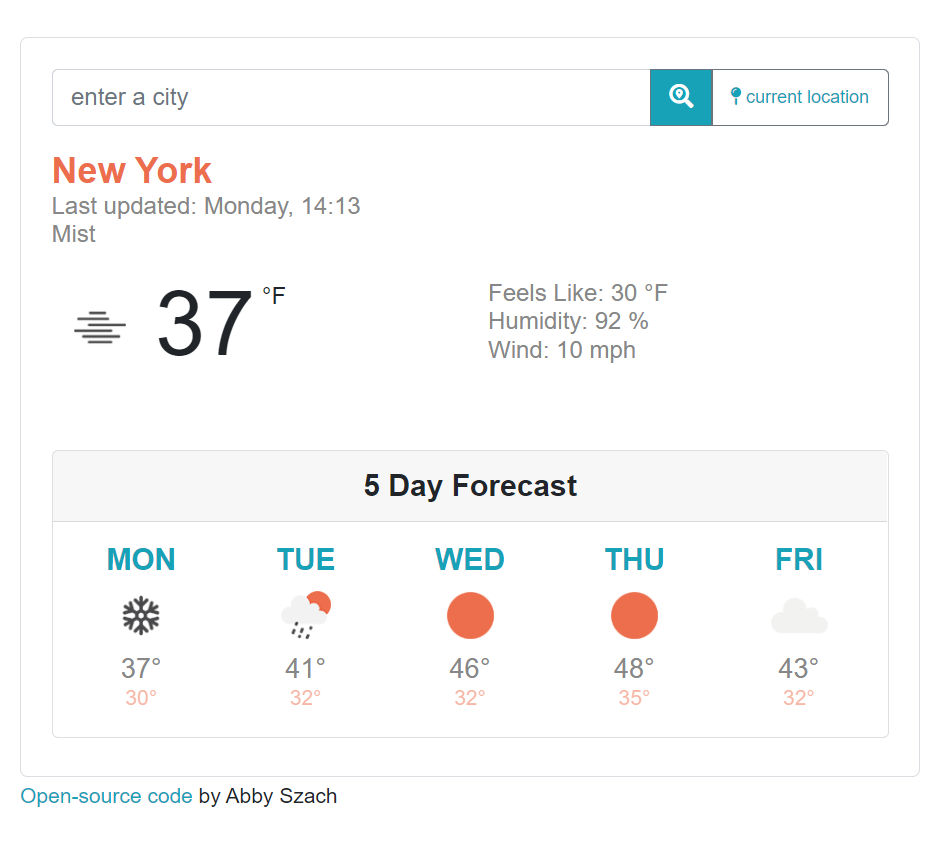
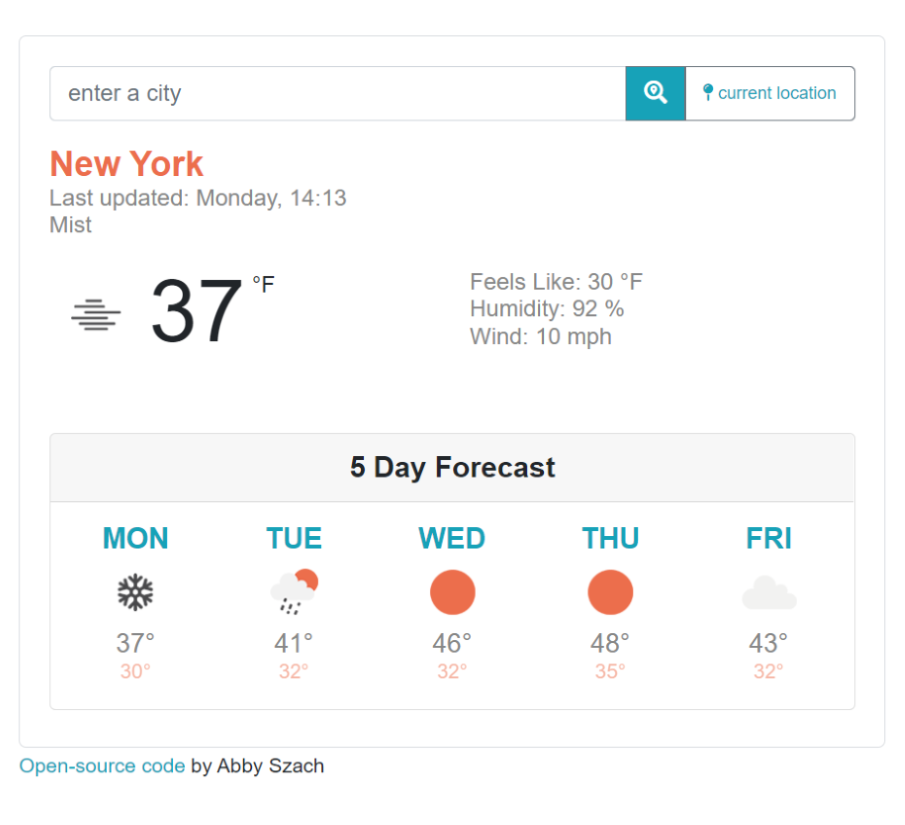
Added work page and made generic class for content

diff --git a/work.html b/work.html
@@ -1,0 +1,52 @@
+<!DOCTYPE html>
+<html lang="en">
+    <head>
+        <meta charset="UTF-8">
+        <meta name="description" content="About Page - Abby Szach">
+        <meta http-equiv="X-UA-Compatible" content="IE=edge">
+        <meta name="viewport" content="width=device-width, initial-scale=1.0">
+        <title>Learn more about front-end developer - Abby Szach</title>
+    
+        <link href="https://cdn.jsdelivr.net/npm/bootstrap@5.1.3/dist/css/bootstrap.min.css" rel="stylesheet" integrity="sha384-1BmE4kWBq78iYhFldvKuhfTAU6auU8tT94WrHftjDbrCEXSU1oBoqyl2QvZ6jIW3" crossorigin="anonymous">
+        <link rel="preconnect" href="https://fonts.googleapis.com">
+        <link rel="preconnect" href="https://fonts.gstatic.com" crossorigin>
+        <link href="https://fonts.googleapis.com/css2?family=Lora:wght@700&family=Poppins:wght@500;700&display=swap" rel="stylesheet">
+        <link rel="stylesheet" href="/src/style.css">
+    
+        <script src="https://cdn.jsdelivr.net/npm/bootstrap@5.1.3/dist/js/bootstrap.bundle.min.js" integrity="sha384-ka7Sk0Gln4gmtz2MlQnikT1wXgYsOg+OMhuP+IlRH9sENBO0LRn5q+8nbTov4+1p" crossorigin="anonymous"></script>
+        <script src="https://kit.fontawesome.com/d408c2f1d0.js" crossorigin="anonymous"></script>
+    
+    </head>
+<body>
+    <div class="content-container container">
+            <div class="content">
+                <h1 class="mb-4"> Take a look at what I've been working on!</h1>
+                <div class="row">
+                    <div class="col-md-6 mb-4">
+                        <img src="/images/dogs-background.png" alt="dog website" class="img-fluid rounded mb-4">
+                       <h3 class="text-center m-0"> Dog Project </h3>
+                       <p class="text-center">Built with HTML and CSS</p>
+                    </div>
+                    <div class="col-md-6 mb-4">
+                        <img src="/images/restaurant-background.png" alt="restaurant website"  class="img-fluid rounded mb-4">
+                        <h3 class="text-center m-0"> Restaurant Website </h3>
+                        <p class="text-center">Built with HTML and CSS</p>
+                    </div>
+                </div>
+                <div class="row">
+                    <div class="col-md-6 mb-4">
+                        <img src="/images/weather-background.png" alt="weather app"  class="img-fluid rounded mb-4">
+                        <h3 class="text-center m-0"> Weather App </h3>
+                        <p class="text-center">Built with HTML, CSS, and Javascript</p>
+                    </div>
+                    <div class="col-md-6 mb-4">
+                        <img src="/images/dictionary-background.png" alt="dictionary app"  class="img-fluid rounded mb-4">
+                        <h3 class="text-center m-0"> Dictionary App </h3>
+                        <p class="text-center">Built with HTML, CSS, and Javascript</p>
+                    </div>
+                </div>
+            </div>
+    </div>
+    
+</body>
+</html>

diff --git a/index.html b/index.html
@@ -34,7 +34,7 @@
 <div class="container">
     <div class="row">
         <div class="col d-none d-lg-block">
-            <img src="/images/weather.png" alt="weather app" class="img-fluid rounded shadow portfolio-image"/>
+            <img src="/images/weather-background.png" alt="weather app" class="img-fluid rounded shadow portfolio-image"/>
         </div>
 <div class="col">
     <div class="project-description">
@@ -62,13 +62,13 @@
         </div>
         </div>
         <div class="col d-none d-lg-block">
-            <img src="/images/restaurant-resize.png" alt="weather app" class="img-fluid rounded shadow portfolio-image"/>
+            <img src="/images/restaurant-background.png" alt="weather app" class="img-fluid rounded shadow portfolio-image"/>
         </div>
     </div>
 
     <div class="row mt-5">
         <div class="col d-none d-lg-block">
-            <img src="/images/dogs.png" alt="first project- dogs" class="img-fluid rounded shadow portfolio-image"/>
+            <img src="/images/dogs-background.png" alt="first project- dogs" class="img-fluid rounded shadow portfolio-image"/>
         </div>
         <div class="col">
         <div class="project-description">

diff --git a/src/style.css b/src/style.css
@@ -1,7 +1,7 @@
 :root {
    --heading-font-family: 'Lora', serif;
     --default-font-family: 'Poppins', sans-serif;
-    --branding-color: #A10853;
+    --branding-color: #a10852;
     --secondary-color: #F9F7FE;
 }
 
@@ -100,26 +100,37 @@ p{
 .project-description {
     padding: 50px 30px;
 }
-.about-section {
+.content-container {
     padding: 150px 20px;
 }
-.about-section h1 {
+.content-container h1 {
     font-size: 64px;
     line-height: 60px;
 }
 
-.about-section p {
+.content-container p {
     font-size: 18px;
     line-height: 1.5;
 }
-.about-section h2 {
+.content-container h2 {
     font-size: 18px;
     font-family: var(--default-font-family);
     font-weight: 700;
 }
 
-.about-section-content {
+.content {
     margin: 30px;
+}
+
+.content h3 {
+    font-family: var(--default-font-family);
+    font-size: 24px;
+    margin: 20px 0 0;
+    line-height: 1.5;
+}
+
+.content p {
+    font-size: 14px;
 }
 
 

diff --git a/about.html b/about.html
@@ -18,10 +18,10 @@
     
     </head>
 <body>
-    <div class="about-section container">
+    <div class="content-container container">
             <div class="row">
                 <div class="col-lg-6">
-                    <div class="about-section-content">
+                    <div class="content">
     <h1 class="mb-4">Hi I am <br />Abby Szach</h1>
     <h2 class="mb-4">Front-end Developer, based in Block Island, Rhode Island</h2>
     <p class="mb-4">For anyone who wants to start learning code, this workshop is very interesting. You will be challenged  with different exercises, and everything is well explained, homework and deadlines are good for keep focus</p>
